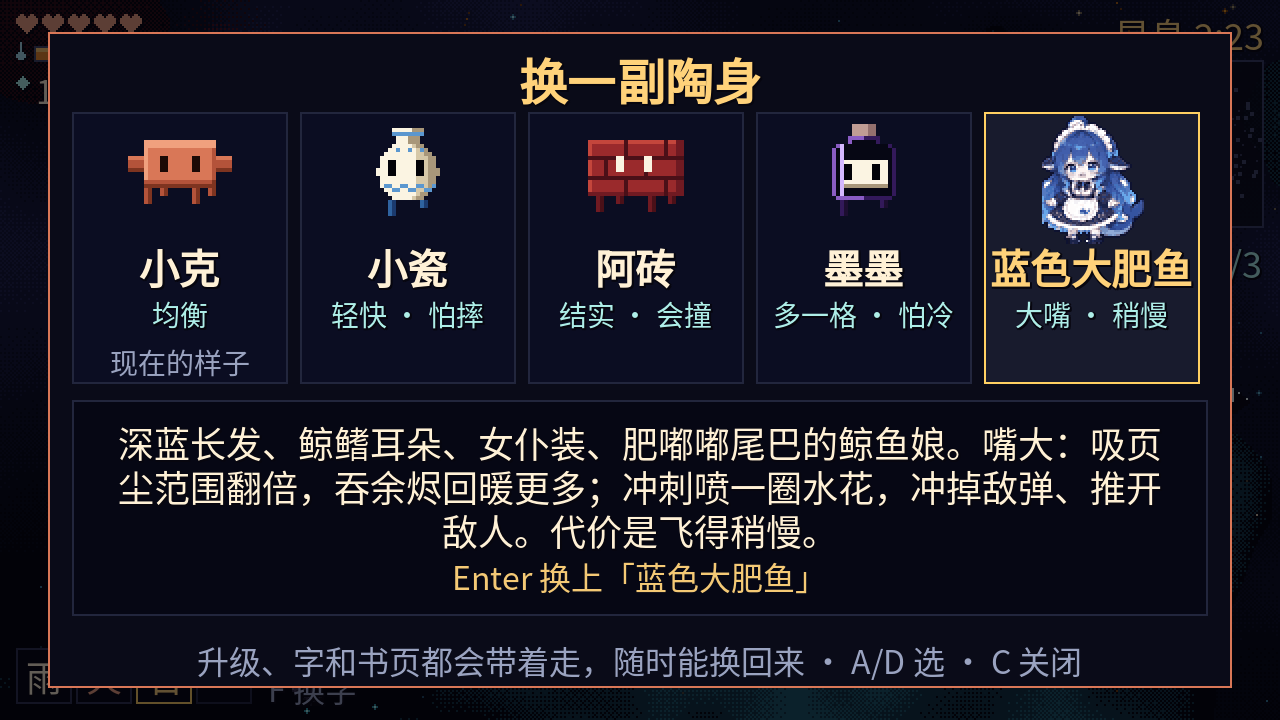
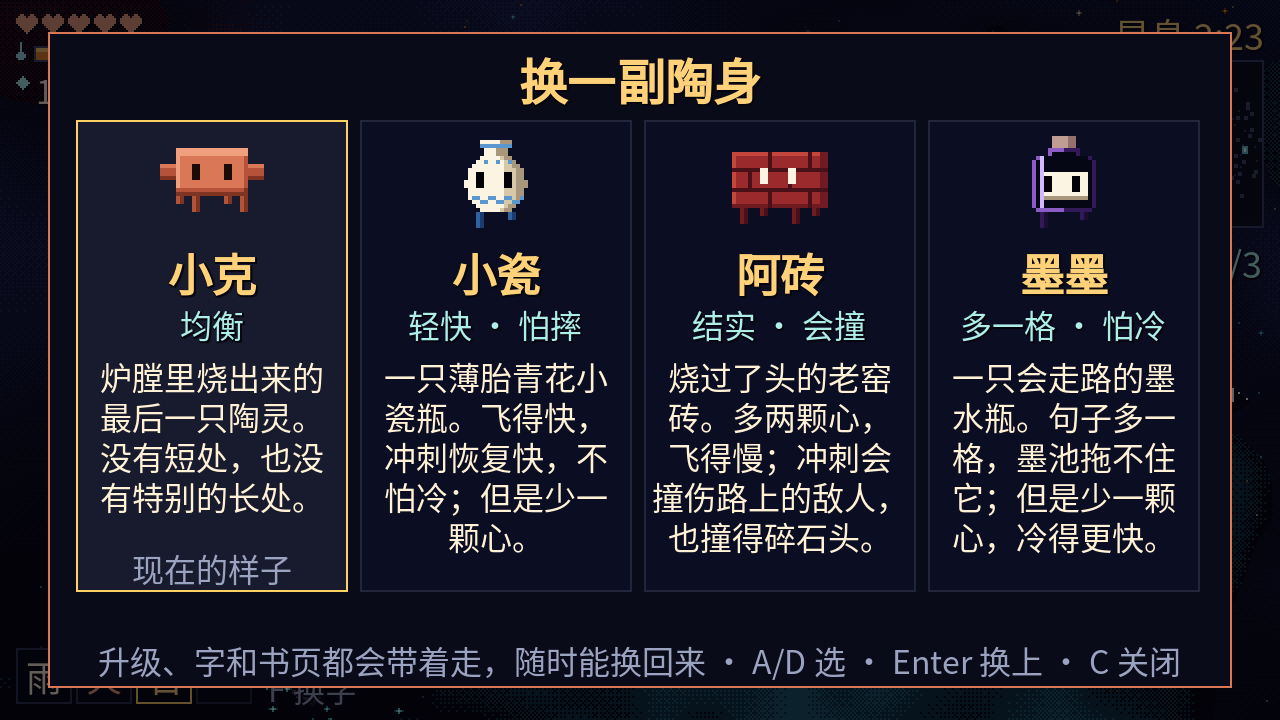
拿掉蓝色大肥鱼（Eric 决定不要了），保留小瓷、阿砖、墨墨
Claude-Session: https://claude.ai/code/session_01VqbkzXVxhidVhkjP4aaanR

diff --git a/README.md b/README.md
@@ -56,7 +56,7 @@ godot --path .
 
 ![第二章](docs/screenshot-ch2.png)
 
-## 五个角色
+## 四只陶灵
 
 在炉灯边按 C（手机点「角色」）可以随时换一副陶身，升级、字和书页都带着走：
 
@@ -66,9 +66,6 @@ godot --path .
 | 小瓷 | 飞得快、冲刺恢复快、不怕冷，少一颗心 |
 | 阿砖 | 多两颗心、飞得慢，冲刺能撞伤敌人、撞碎石头 |
 | 墨墨 | 句子多一格、不怕墨池，少一颗心、冷得更快 |
-| 蓝色大肥鱼 | 吸页尘范围翻倍、吞余烬回暖更多，冲刺喷水花冲掉敌弹；飞得稍慢 |
-
-蓝色大肥鱼的形象是社区同人角色“鲸鱼娘”，像素图由设定图缩小而来，出处：[DeepSeek Whale-chan Project](https://github.com/Neko3000/deepseek-whalechan)（原始形象作者见该项目说明）。该项目只允许非商业二创，本游戏如果要商用，需要先换掉这个角色或取得授权。
 
 ![角色](docs/screenshot-chars.png)
 
